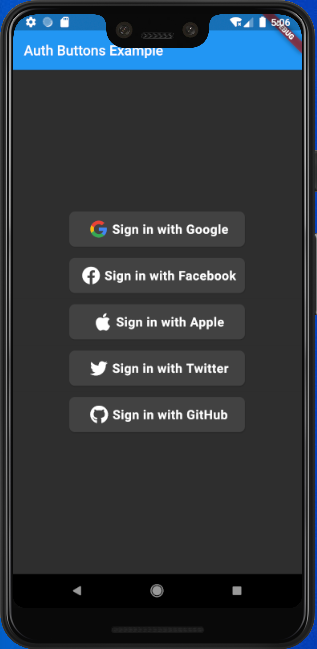
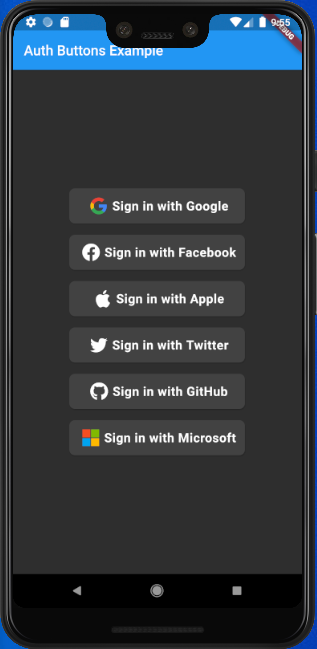
update to 0.0.4

Changed region(s): [[0.2555, 0.3082, 0.7382, 0.7088], [0.8517, 0.0308, 0.9085, 0.0616], [0.7382, 0.0308, 0.7666, 0.0616]]

diff --git a/README.md b/README.md
@@ -2,13 +2,13 @@
 [![Pub Version](https://img.shields.io/pub/v/auth_buttons?color=blue&logo=dart)](https://pub.dev/packages/auth_buttons)
 
 Auth Buttons is a flutter widget library, include buttons for authenticating with the most popular 
-social networks like: Google, Facebook, Apple and Twitter.
+social networks like: Google, Facebook, Apple and too other.
 
 ## Installation
 1) add this to your packages pubspec.yaml file:
 ```yaml
 dependencies:
-  auth_buttons: ^0.0.1
+  auth_buttons: ^0.0.4
 ```
 2) Install it 
 You can install it from the command line:
@@ -59,5 +59,5 @@ GoogleAuthButton(
 ),
 ```
 
-Do same way with other buttons, when you want to customize any button 
+Do same think with the other buttons, when you want customize any button 
 you can do it just passing a property which you want.

diff --git a/CHANGELOG.md b/CHANGELOG.md
@@ -1,3 +1,4 @@
+## [0.0.4] - New style & add Microsoft button
 ## [0.0.3] - Submit to stable & add GitHub button
 ## [0.0.2] - Alpha version.
 ## [0.0.1] - First publication.
